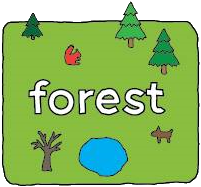
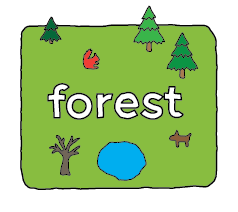
Pressed and disabled version of scenario buttons #246

diff --git a/x-cars/src/cz/cuni/mff/xcars/scene/SelectScreenBase.java b/x-cars/src/cz/cuni/mff/xcars/scene/SelectScreenBase.java
@@ -8,6 +8,7 @@ import com.badlogic.gdx.math.Vector2;
 import com.badlogic.gdx.scenes.scene2d.Actor;
 import com.badlogic.gdx.scenes.scene2d.InputEvent;
 import com.badlogic.gdx.scenes.scene2d.InputListener;
+import com.badlogic.gdx.scenes.scene2d.ui.Button;
 import com.badlogic.gdx.scenes.scene2d.ui.Slider;
 import com.badlogic.gdx.scenes.scene2d.ui.Slider.SliderStyle;
 import com.badlogic.gdx.scenes.scene2d.utils.ChangeListener;
@@ -18,7 +19,6 @@ import cz.cuni.mff.xcars.constants.Constants;
 import cz.cuni.mff.xcars.debug.Debug;
 import cz.cuni.mff.xcars.input.Input;
 import cz.cuni.mff.xcars.screenObjects.ScreenAdaptiveImage;
-import cz.cuni.mff.xcars.screenObjects.ScreenAdaptiveTextButton;
 
 public abstract class SelectScreenBase extends BaseScreen {
 	// Buttons bounds
@@ -53,12 +53,12 @@ public abstract class SelectScreenBase extends BaseScreen {
 	private boolean isAnimationInProgress = false;
 	private float flingVelocity;
 
-	private ScreenAdaptiveTextButton[] buttons;
+	private Button[] buttons;
 
 	Slider slider;
 	private boolean isSliderOperating = false;
 
-	protected void RegisterButtons(final int buttonIndex, ScreenAdaptiveTextButton[] buttons) {
+	protected void RegisterButtons(final int buttonIndex, Button[] buttons) {
 		this.buttonsPerPage = setButtonsCountsPerPage(buttons);
 		this.pagesCount = buttons.length % this.buttonsPerPage == 0 ? buttons.length / this.buttonsPerPage
 				: (buttons.length / this.buttonsPerPage) + 1;
@@ -83,7 +83,7 @@ public abstract class SelectScreenBase extends BaseScreen {
 	 * @param buttons
 	 * @return Total number of buttons
 	 */
-	private int setButtonsCountsPerPage(ScreenAdaptiveTextButton[] buttons) {
+	private int setButtonsCountsPerPage(Button[] buttons) {
 		float y = buttonsMaxYPosition - buttons[0].getHeight();
 		int attemp = 0;
 

diff --git a/x-cars/src/cz/cuni/mff/xcars/scene/ScenarioSelectScreen.java b/x-cars/src/cz/cuni/mff/xcars/scene/ScenarioSelectScreen.java
@@ -7,7 +7,7 @@ import com.badlogic.gdx.scenes.scene2d.ui.Image;
 import cz.cuni.mff.xcars.Scenario;
 import cz.cuni.mff.xcars.Xcars;
 import cz.cuni.mff.xcars.constants.Constants;
-import cz.cuni.mff.xcars.screenObjects.ScreenAdaptiveTextButton;
+import cz.cuni.mff.xcars.screenObjects.ScreenAdaptiveButton;
 
 public class ScenarioSelectScreen extends SelectScreenBase {
 	public ScenarioSelectScreen(final int levelIndex) {
@@ -33,15 +33,15 @@ public class ScenarioSelectScreen extends SelectScreenBase {
 
 		// Buttons
 		Vector<Scenario> scenarios = Xcars.availableLevels.scenarios;
-		ScreenAdaptiveTextButton[] buttons = new ScreenAdaptiveTextButton[scenarios.size()];
+		ScreenAdaptiveButton[] buttons = new ScreenAdaptiveButton[scenarios.size()];
 		for (int i = 0; i < scenarios.size(); ++i) {
 			final Scenario scenario = scenarios.get(i);
 			boolean isEnabled = Xcars.playedLevels.levels.containsKey(scenario.name);
-			ScreenAdaptiveTextButton scenarioButton = new ScreenAdaptiveTextButton(scenario.name,
+			ScreenAdaptiveButton scenarioButton = new ScreenAdaptiveButton(
 					Xcars.getInstance().assets.getGraphics(Constants.menu.SCENARIOS_FOLDER_NAME + "/" + scenario.name),
-					Xcars.getInstance().assets.getGraphics(Constants.menu.BUTTON_MENU_DIFFICULTY_HOVER),
-					Xcars.getInstance().assets.getGraphics(Constants.menu.BUTTON_MENU_DIFFICULTY),
-					Xcars.getInstance().assets.getLevelNumberFont(), isEnabled) {
+					Xcars.getInstance().assets.getGraphics(Constants.menu.SCENARIOS_FOLDER_NAME + "/" + scenario.name
+							+ "Hover"), Xcars.getInstance().assets.getGraphics(Constants.menu.SCENARIOS_FOLDER_NAME
+							+ "/" + scenario.name + "Locked"), isEnabled) {
 				@Override
 				public void action() {
 					if (!wasPanned) {

diff --git a/x-cars/src/cz/cuni/mff/xcars/screenObjects/ScreenAdaptiveButton.java b/x-cars/src/cz/cuni/mff/xcars/screenObjects/ScreenAdaptiveButton.java
@@ -7,22 +7,27 @@ import com.badlogic.gdx.scenes.scene2d.ui.Button;
 
 public abstract class ScreenAdaptiveButton extends Button {
 
-	public ScreenAdaptiveButton(TextureRegion image, TextureRegion imagePressed) {
-		super(new ScreenAdaptiveButtonStyle(image, imagePressed));
+	public ScreenAdaptiveButton(TextureRegion image, TextureRegion imagePressed, TextureRegion disabled,
+			boolean hasListener) {
+		super(new ScreenAdaptiveButtonStyle(image, imagePressed, disabled));
 
-		this.addListener(new InputListener() {
-			public boolean touchDown(InputEvent event, float x, float y,
-					int pointer, int button) {
-				return true;
-			}
-
-			public void touchUp(InputEvent event, float x, float y,
-					int pointer, int button) {
-				if (x >= 0 && x < getWidth() && y >= 0 && y < getHeight()) {
-					action();
+		if (hasListener) {
+			this.addListener(new InputListener() {
+				public boolean touchDown(InputEvent event, float x, float y, int pointer, int button) {
+					return true;
 				}
-			}
-		});
+
+				public void touchUp(InputEvent event, float x, float y, int pointer, int button) {
+					if (x >= 0 && x < getWidth() && y >= 0 && y < getHeight()) {
+						action();
+					}
+				}
+			});
+		}
+	}
+
+	public ScreenAdaptiveButton(TextureRegion image, TextureRegion imagePressed) {
+		this(image, imagePressed, null, true);
 	}
 
 	public void setStyle(TextureRegion image, TextureRegion imageHover) {

diff --git a/x-cars/src/cz/cuni/mff/xcars/screenObjects/ScreenAdaptiveButtonStyle.java b/x-cars/src/cz/cuni/mff/xcars/screenObjects/ScreenAdaptiveButtonStyle.java
@@ -10,18 +10,22 @@ import cz.cuni.mff.xcars.Xcars;
 public class ScreenAdaptiveButtonStyle extends TextButtonStyle {
 	ScreenAdaptiveButtonStyle(TextureRegion image, TextureRegion imagePressed, TextureRegion disabled, BitmapFont font) {
 		this.up = new TextureRegionDrawable(image);
-		//this.over = new TextureRegionDrawable(imageHover);
+		// this.over = new TextureRegionDrawable(imageHover);
 		// Since the target device is mobile, there is no "over".
 		this.over = null;
 		this.down = new TextureRegionDrawable(imagePressed);
 		if (disabled != null) {
 			this.disabled = new TextureRegionDrawable(disabled);
 		}
-		
-		this.font = font;		
+
+		this.font = font;
 	}
-	
+
 	ScreenAdaptiveButtonStyle(TextureRegion image, TextureRegion imagePressed) {
 		this(image, imagePressed, null, Xcars.getInstance().assets.getMenuFont());
+	}
+
+	ScreenAdaptiveButtonStyle(TextureRegion image, TextureRegion imagePressed, TextureRegion disabled) {
+		this(image, imagePressed, disabled, Xcars.getInstance().assets.getMenuFont());
 	}
 }

diff --git a/x-cars/src/cz/cuni/mff/xcars/constants/Menu.java b/x-cars/src/cz/cuni/mff/xcars/constants/Menu.java
@@ -99,7 +99,7 @@ public final class Menu {
 	public final float SCENARIO_SELECT_SCREEN_buttonsMinXPosition = 20;
 	public final float SCENARIO_SELECT_SCREEN_buttonsMinYPosition = 50;
 	public final float SCENARIO_SELECT_SCREEN_buttonsMaxYPosition = 450;
-	public final int SCENARIO_SELECT_SCREEN_buttonsXOffset = 120;
-	public final int SCENARIO_SELECT_SCREEN_buttonsYOffset = 120;
+	public final int SCENARIO_SELECT_SCREEN_buttonsXOffset = 15;
+	public final int SCENARIO_SELECT_SCREEN_buttonsYOffset = 50;
 
 }
